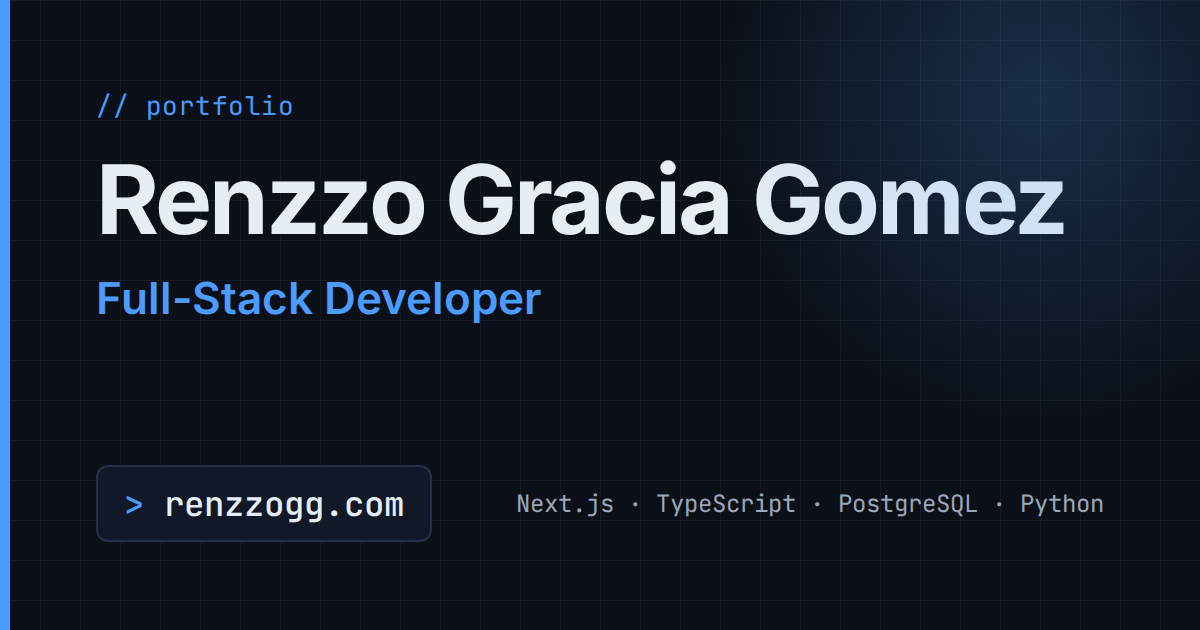
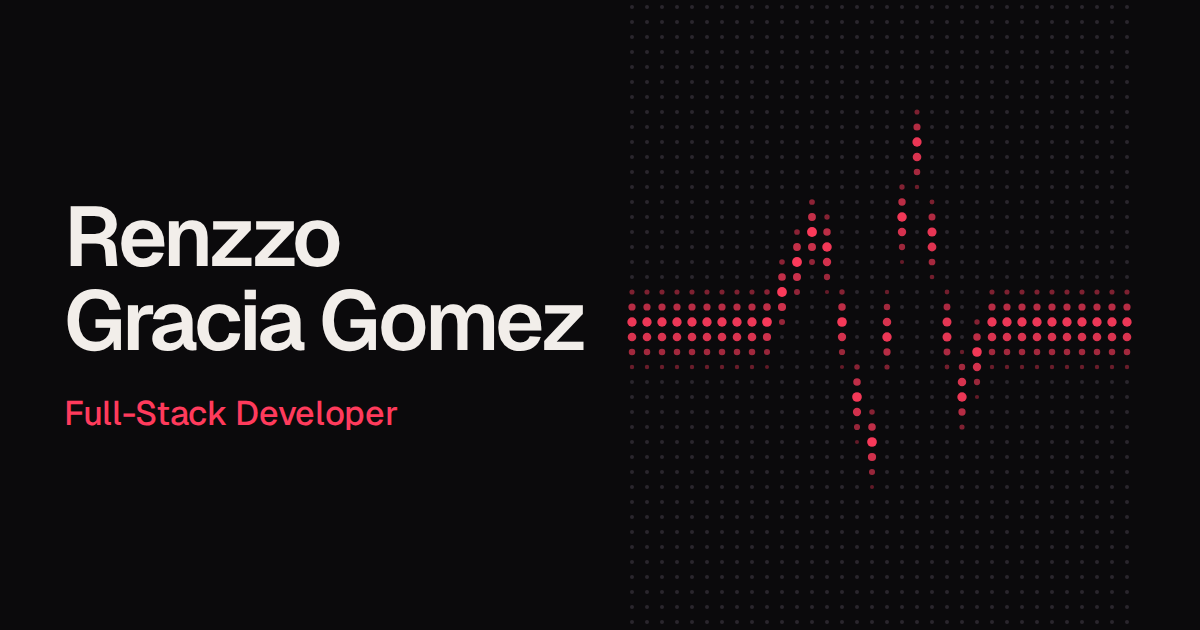
feat(seo): add social tags, JSON-LD, sitemap, robots and OG image

diff --git a/scripts/og-image.ts b/scripts/og-image.ts
@@ -1,0 +1,67 @@
+/** Renders the 1200×630 Open Graph image in the Signal style. */
+import { readFileSync } from "node:fs";
+import { chromium } from "@playwright/test";
+import sharp from "sharp";
+
+const OUTPUT = "public/og-image.png";
+const font = readFileSync(
+  "node_modules/@fontsource-variable/geist/files/geist-latin-wght-normal.woff2",
+).toString("base64");
+
+const COLUMNS = 34;
+const ROWS = 42;
+const wave = [
+  [0, 0.52],
+  [0.27, 0.52],
+  [0.38, 0.34],
+  [0.48, 0.74],
+  [0.57, 0.2],
+  [0.66, 0.64],
+  [0.72, 0.52],
+  [1, 0.52],
+] as const;
+
+function waveY(x: number) {
+  for (let index = 1; index < wave.length; index += 1) {
+    const [x0, y0] = wave[index - 1] ?? [0, 0];
+    const [x1, y1] = wave[index] ?? [1, 0];
+    if (x <= x1) return y0 + ((x - x0) / (x1 - x0)) * (y1 - y0);
+  }
+  return 0.52;
+}
+
+let dots = "";
+for (let row = 0; row < ROWS; row += 1) {
+  for (let column = 0; column < COLUMNS; column += 1) {
+    const x = column / (COLUMNS - 1);
+    const y = row / (ROWS - 1);
+    const distance = Math.abs(y - waveY(x));
+    const lit = Math.max(0, 1 - distance / 0.07);
+    const fill = lit > 0 ? "#FF3B5C" : "#2A262D";
+    const radius = 2 + lit * 3;
+    const opacity = lit > 0 ? 0.35 + lit * 0.65 : 1;
+    dots += `<circle cx="${column * 15 + 8}" cy="${row * 15 + 8}" r="${radius.toFixed(2)}" fill="${fill}" opacity="${opacity.toFixed(2)}"/>`;
+  }
+}
+
+const html = `<!doctype html><style>
+@font-face{font-family:Geist;src:url(data:font/woff2;base64,${font}) format("woff2");font-weight:100 900}
+*{box-sizing:border-box;margin:0}
+body{width:1200px;height:630px;display:flex;align-items:center;justify-content:space-between;padding:0 64px;background:#0B0A0C;color:#F2EEEA;font-family:Geist,sans-serif}
+h1{font-size:84px;line-height:1;letter-spacing:-.04em;font-weight:600}
+p{margin-top:28px;font-size:34px;color:#FF3B5C;font-weight:500;letter-spacing:-.01em}
+svg{flex:none}
+</style><div><h1>Renzzo<br>Gracia Gomez</h1><p>Full-Stack Developer</p></div>
+<svg width="512" height="632" viewBox="0 0 512 632" aria-hidden="true">${dots}</svg>`;
+
+const browser = await chromium.launch();
+const page = await browser.newPage({
+  viewport: { width: 1200, height: 630 },
+});
+await page.setContent(html, { waitUntil: "load" });
+await page.evaluate(() => document.fonts.ready);
+const shot = await page.screenshot({ type: "png" });
+await browser.close();
+
+await sharp(shot).png({ compressionLevel: 9, palette: true }).toFile(OUTPUT);
+console.log(`Wrote ${OUTPUT}`);

diff --git a/src/pages/sitemap.xml.ts b/src/pages/sitemap.xml.ts
@@ -1,0 +1,18 @@
+import type { APIRoute } from "astro";
+
+const ROUTES = ["/", "/cv/"];
+
+export const GET: APIRoute = ({ site }) => {
+  if (!site) throw new Error("`site` must be set in astro.config.mjs");
+  const urls = ROUTES.map(
+    (route) => `  <url><loc>${new URL(route, site).href}</loc></url>`,
+  ).join("\n");
+  const body = `<?xml version="1.0" encoding="UTF-8"?>
+<urlset xmlns="http://www.sitemaps.org/schemas/sitemap/0.9">
+${urls}
+</urlset>
+`;
+  return new Response(body, {
+    headers: { "Content-Type": "application/xml; charset=utf-8" },
+  });
+};

diff --git a/src/pages/robots.txt.ts b/src/pages/robots.txt.ts
@@ -1,0 +1,9 @@
+import type { APIRoute } from "astro";
+
+export const GET: APIRoute = ({ site }) => {
+  if (!site) throw new Error("`site` must be set in astro.config.mjs");
+  const sitemap = new URL("/sitemap.xml", site).href;
+  return new Response(`User-agent: *\nAllow: /\n\nSitemap: ${sitemap}\n`, {
+    headers: { "Content-Type": "text/plain; charset=utf-8" },
+  });
+};

diff --git a/docs/PLAN.md b/docs/PLAN.md
@@ -220,6 +220,7 @@ Every dependency must be justified here before it's added. Versions are pinned e
 | @fontsource-variable/geist, @fontsource-variable/geist-mono | 5.3.0             | 1     | dev (build-time asset)  | Self-hosted Geist fonts (OFL-1.1). No third-party font request. Only the Latin variable woff2 files are referenced, and Astro bundles them with hashed names.    |
 | @types/node                                                 | 24.19.2           | 1     | dev                     | Types for Node APIs used by the content schema and the contrast script. Matches the Node 24 in `.nvmrc`.                                                         |
 | @playwright/test                                            | 1.65.1            | 2     | dev                     | E2E, visual checks, CV PDF generation, OG/Upwork captures. 1.65.1 matches the Chromium 1255 already installed on the machine.                                    |
+| sharp                                                       | 0.35.5            | 2     | dev                     | Compresses the generated OG image. Same version Astro already installs for its image pipeline, declared because a script now imports it directly.                |
 | three                                                       | 0.187.x (planned) | 4     | runtime (lazy, desktop) | WebGL for the LED face and curved screens. Imported only through dynamic `import()`.                                                                             |
 | gsap                                                        | 3.15.x (planned)  | 6     | runtime (lazy)          | Timeline-based glitch and section transitions. Deferred chunk. Already used in Pulse Theory.                                                                     |
 | Face pipeline tools                                         | TBD               | 3     | dev-only, offline       | Background removal and depth estimation. Chosen and justified in Phase 3. Not shipped.                                                                           |
